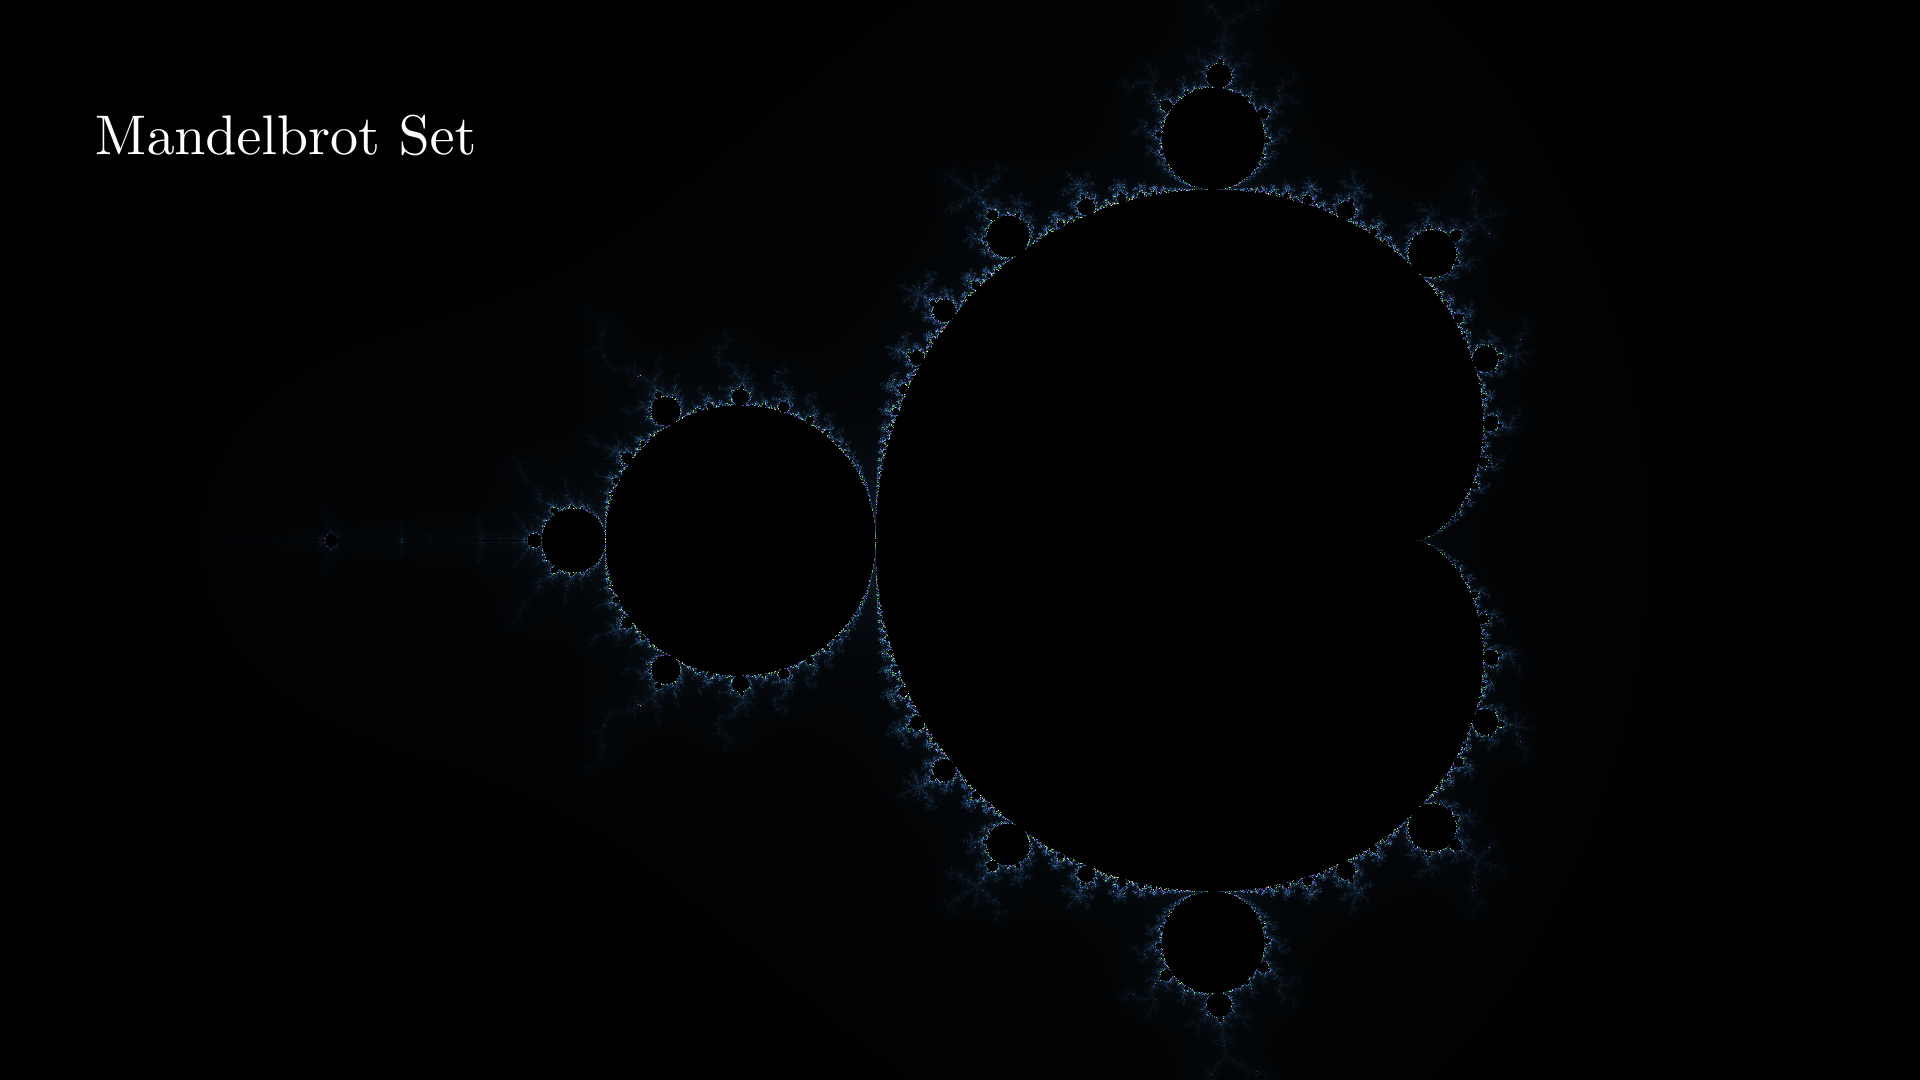
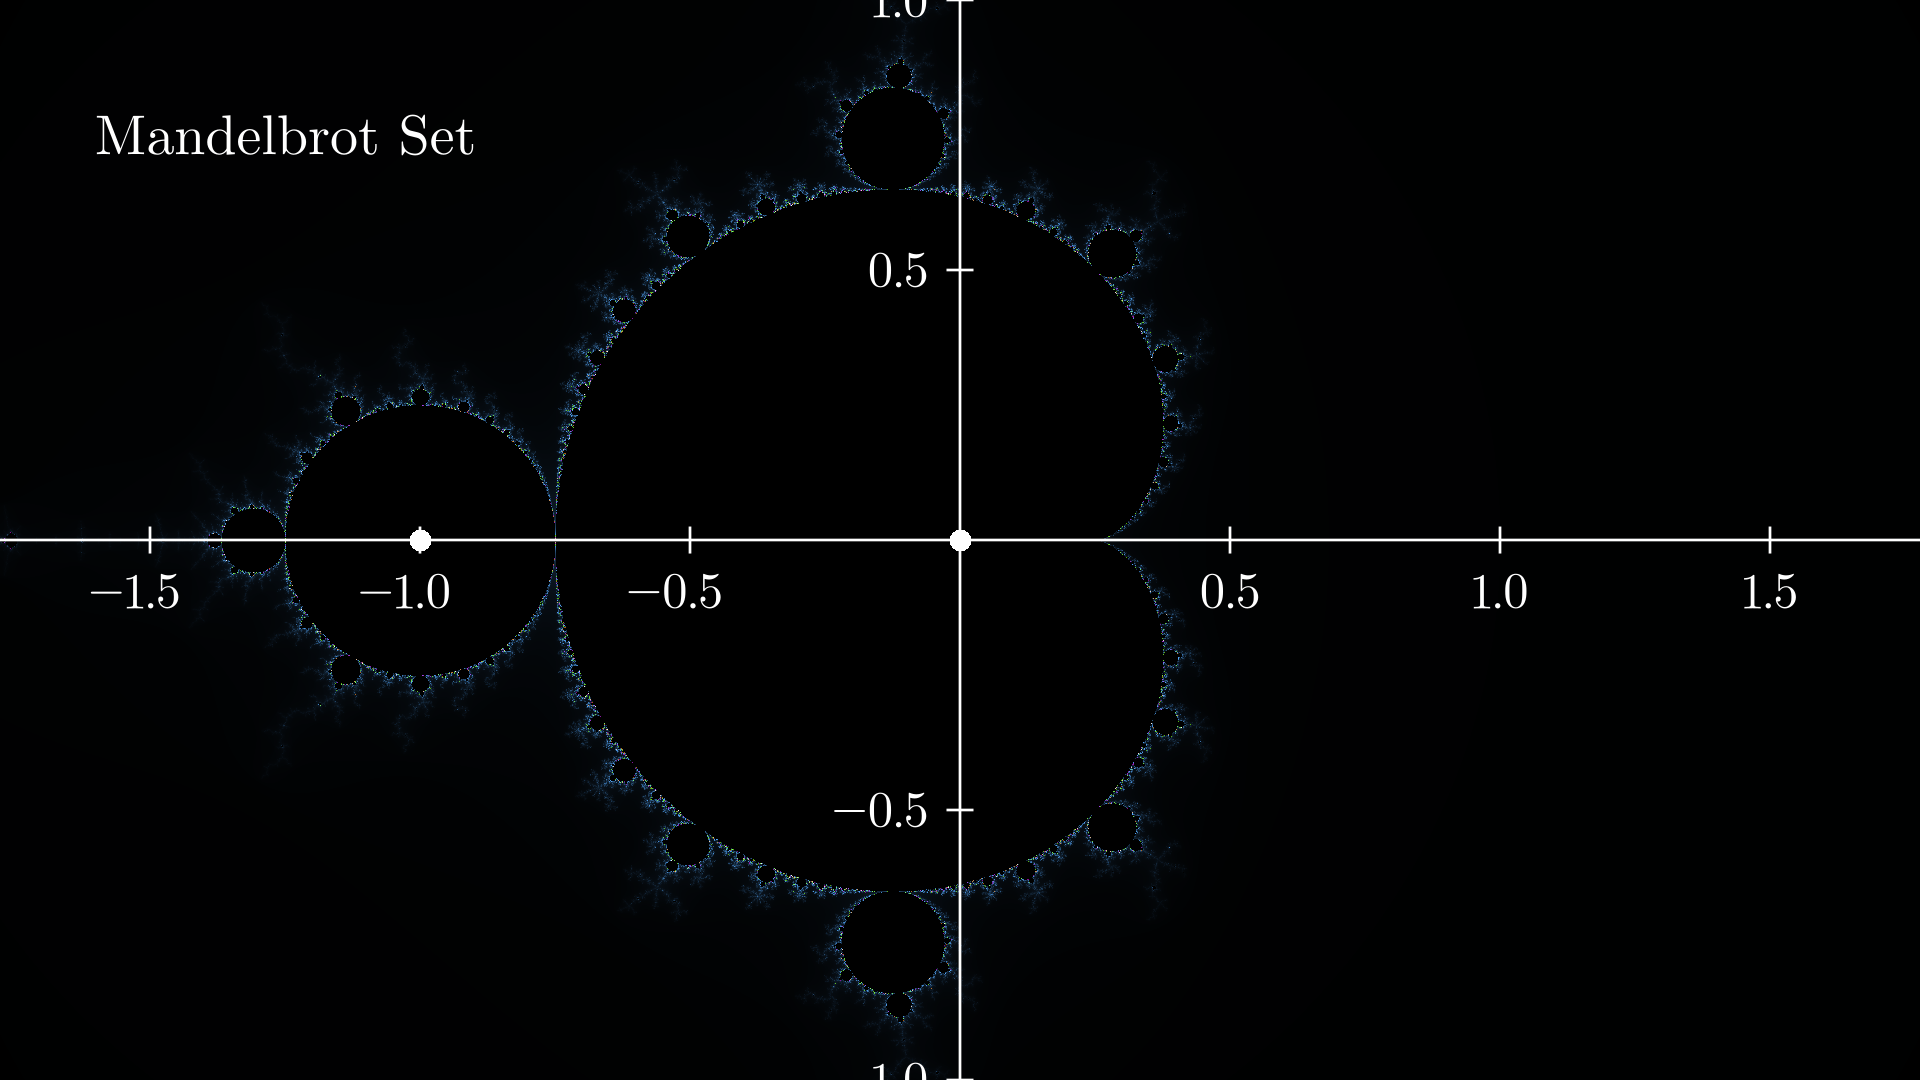
add grid and points for orientation

diff --git a/mandelbrot.py b/mandelbrot.py
@@ -1,11 +1,13 @@
 from manim import *
-from math import log, ceil
+from math import log, ceil, sqrt
 import time
 from numba import jit, njit
 from numba.experimental import jitclass
 from numba.typed import List
 
-ratio = 16/9
+ratio_x = 16
+ratio_y = 9
+ratio = ratio_x / ratio_y
 rows = config.frame_size[1]
 cols = ceil(rows * ratio)
 height = config.frame_height
@@ -18,6 +20,7 @@ class Mandelbrot(Scene):
         global rows
         global height
         global width
+        global ratio
 
         start_time = time.time()
 
@@ -26,17 +29,27 @@ class Mandelbrot(Scene):
             include_underline=False,
             font_size=40,
         ).move_to([-5,3,0])
+
+        grid = Axes(
+            x_range=[-1 * ratio, 1 * ratio, 0.5],
+            y_range=[-1, 1, 0.5],
+            x_length=8 * ratio,
+            y_length=8,
+            axis_config={
+                "include_numbers": True
+            },
+            tips=False,
+        )
             
-        doube_ratio = ratio * 2
         zoom = 1
         center_x = 0
         center_y = 0
-        delta_x = (doube_ratio / 3)
         delta_y = 1
-        re_min = ( -center_x - delta_x * 2 ) / zoom
-        re_max = ( -center_x + delta_x ) / zoom
-        im_min = (-center_y - delta_y ) / zoom
-        im_max = ( -center_y + delta_y ) / zoom
+        delta_x = 1
+        re_min = (( center_x ) - delta_x / zoom) * ratio
+        re_max = (( center_x ) + delta_x / zoom) * ratio
+        im_min = (( center_y ) - delta_y / zoom)
+        im_max = (( center_y ) + delta_y / zoom)
 
         print("re_min: ", re_min)
         print("re_max: ", re_max)
@@ -48,7 +61,7 @@ class Mandelbrot(Scene):
         image = ImageMobject(pixels_to_render)
         image.height = height
         image.width  = width
-        self.add(image, title)
+        self.add(image, title, grid)
 
         end_time = time.time()
         elapsed_time = end_time - start_time
@@ -74,7 +87,11 @@ def iterate_cols(re_min, re_max, im_min, im_max, y):
     for x in range(cols):
         c_re = re_min + (re_max-re_min)*x/cols
         iter = julia(c_re, c_im, c_re, c_im, max_betrag_2, max_iter)
-        row.append(color_picker(iter, max_iter))
+        if (sqrt(c_re**2 + c_im**2) < 0.02 or sqrt((c_re+1)**2 + c_im**2) < 0.02):
+            color = [255, 255, 255, 255]
+        else:
+            color = color_picker(iter, max_iter)
+        row.append(color)
     return row
 
 @njit #(parallel=True)
